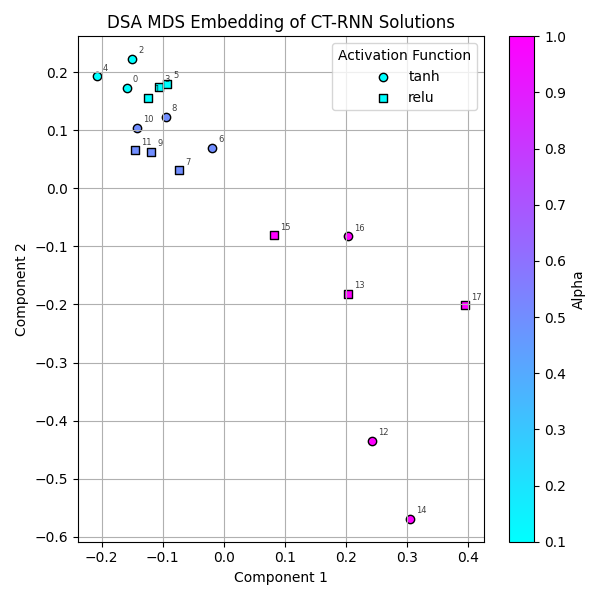
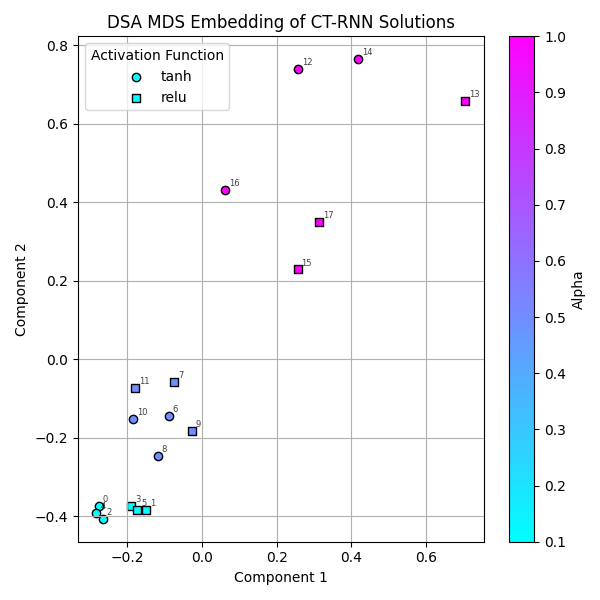
[update][script] new parameters for DSA

diff --git a/scripts/dsa_pipeline.py b/scripts/dsa_pipeline.py
@@ -103,9 +103,9 @@ for _, row in tqdm(val_metrics.iterrows(), total=len(val_metrics)):
 print("Running DSA...")
 dsa = DSA(
     rates_list,
-    n_delays=40,
-    delay_interval=1,
-    rank=50,
+    n_delays=2,
+    delay_interval=2,
+    rank=30,
     iters=5000,
     lr=1e-2,
     device="cpu",
